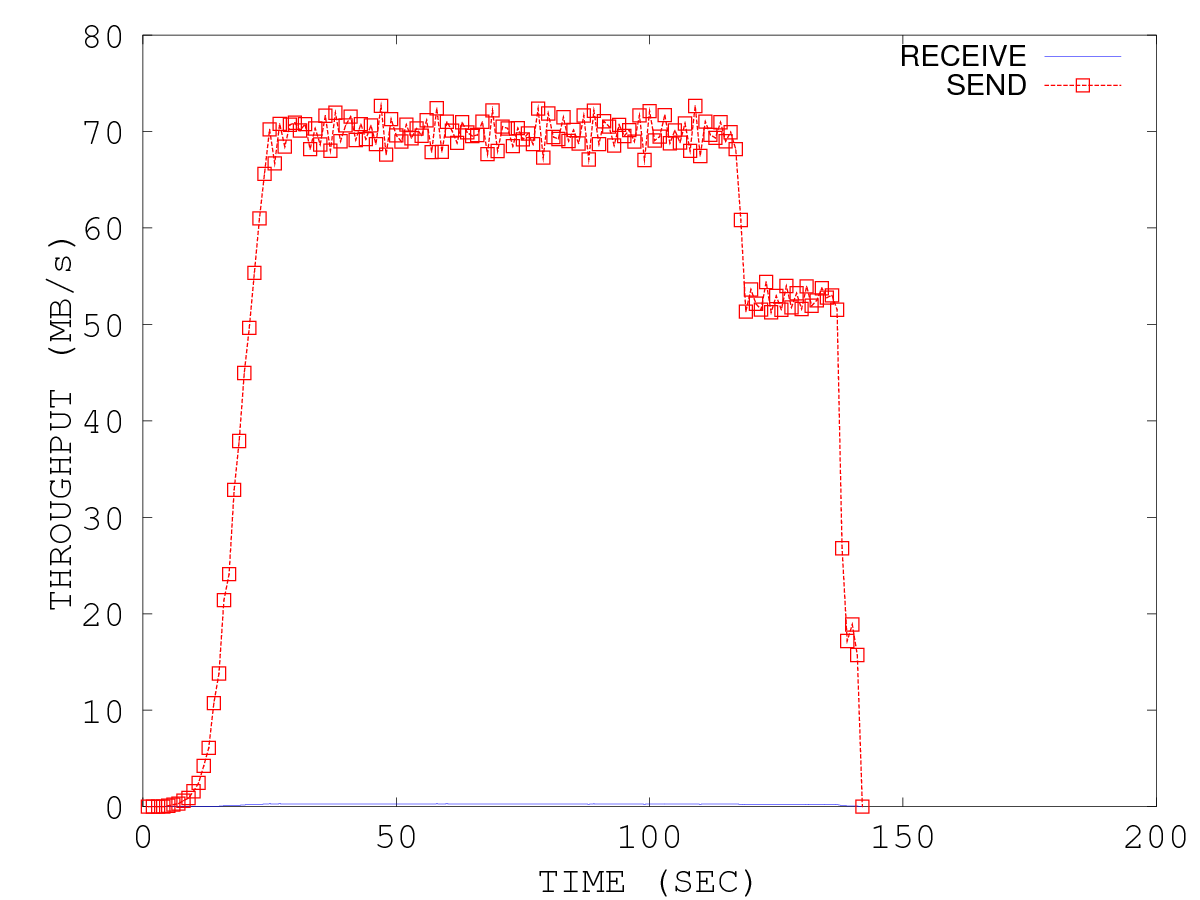
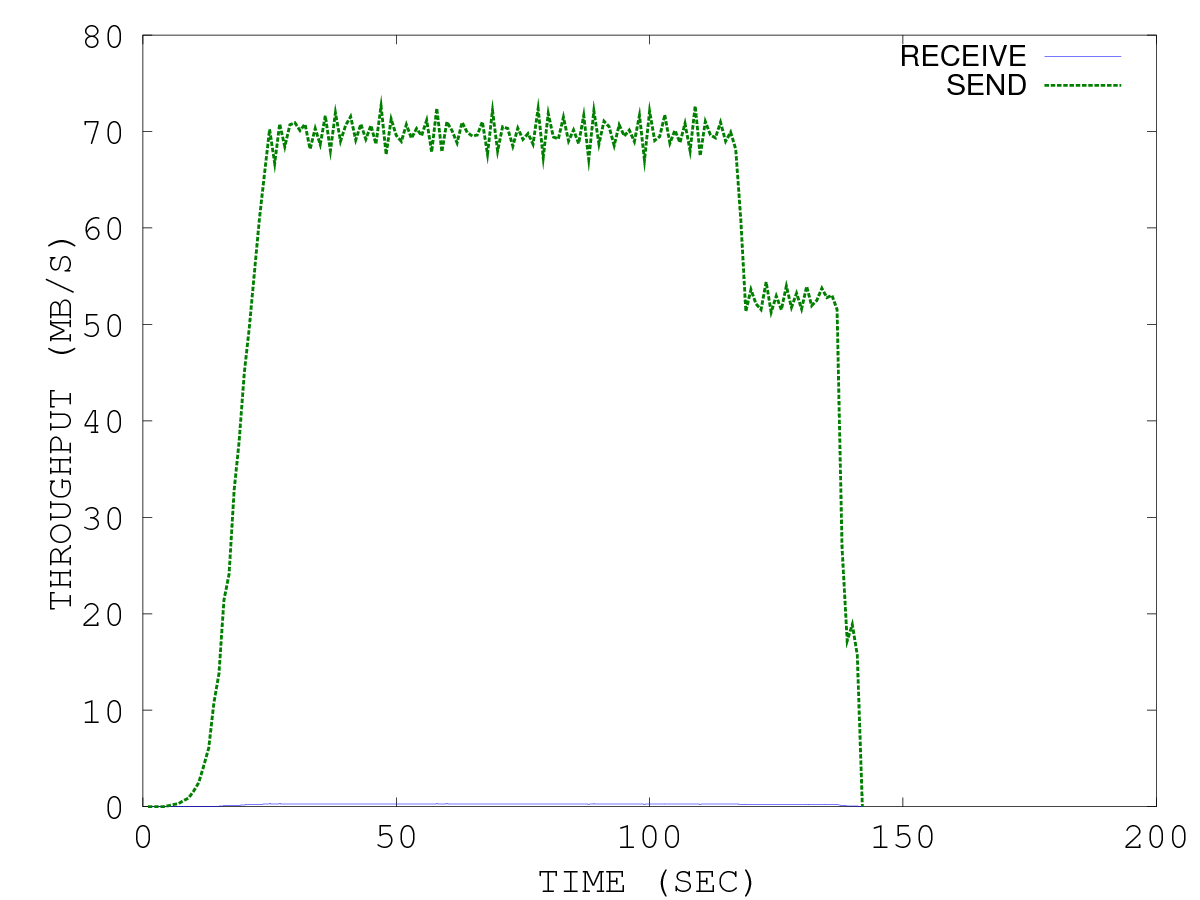
all

diff --git a/plot/plotnet.m b/plot/plotnet.m
@@ -15,6 +15,8 @@ sendcol = 9;
 fontsize = 18;
 %fontsize = 20; % too close distance between axis and axis labels
 
+linewidth = 5;
+
 %prefix = "rand-6-r2"
 data = strcat(prefix, postfix)
 %data = strcat(prefix, ".dstat");
@@ -29,11 +31,11 @@ A = csvread(prefix, startrow, recvcol);
 figure;
 output = data
 x = 1:1:length(A);
-plot(x, A(:,1)/1000000, x, A(:,2)/1000000, '--rs', 'LineWidth', 2);
-%plot(x, A(:,1)/1000000, x, A(:,2)/1000000, '--');
+plot(x, A(:,1)/1000000, x, A(:,2)/1000000, '--', 'LineWidth', linewidth);
+%plot(x, A(:,1)/1000000, x, A(:,2)/1000000, '--rs');
 %plot(x, A(:,1)/1000000, x, A(:,2)/1000000, '-.*');
 xlabel('TIME (SEC)');
-ylabel('THROUGHPUT (MB/s)');
+ylabel('THROUGHPUT (MB/S)');
 legend('RECEIVE', 'SEND');
 
 set(gca,'FontSize',fontsize)
@@ -47,8 +49,8 @@ saveas (1, strcat(output, ".emf"));
 figure;
 output = strcat(prefix, ".recv");
 x = 1:1:length(A);
-plot(x, A(:,1)/1000000, x, A(:,1)/(1000000*N), ':');
-%plot(x, A(:,1)/1000000);
+plot(x, A(:,1)/1000000, x, A(:,1)/(1000000*N), '--', 'LineWidth', linewidth);
+%plot(x, A(:,1)/1000000, x, A(:,1)/(1000000*N), ':');
 xlabel('TIME (SEC)');
 ylabel('THROUGHPUT (MB/s)');
 legend('AGGREGATE', 'PER VM');
@@ -69,15 +71,15 @@ saveas (1, strcat(output, ".emf"));
 figure;
 output = strcat(prefix, ".send");
 x = 1:1:length(A);
-plot(x, A(:,2)/1000000, x, A(:,2)/(1000000*N), '--', 'LineWidth', 3);
+plot(x, A(:,2)/1000000, x, A(:,2)/(1000000*N), '--', 'LineWidth', linewidth);
 %plot(x, A(:,2)/1000000);
 %plot(x, A(:,2)/1000000, '-.*');
 xlabel('TIME (SEC)');
-ylabel('THROUGHPUT (MB/s)');
+ylabel('THROUGHPUT (MB/S)');
 legend('AGGREGATE', 'PER VM');
 
-yh = get(gca, 'YLabel')
-p=get(yh,'position')
+yh = get(gca, 'YLabel');
+p=get(yh,'position');
 set(yh,'position',[p(1)+5 p(2)])
 
 set(gca,'FontSize',fontsize)
